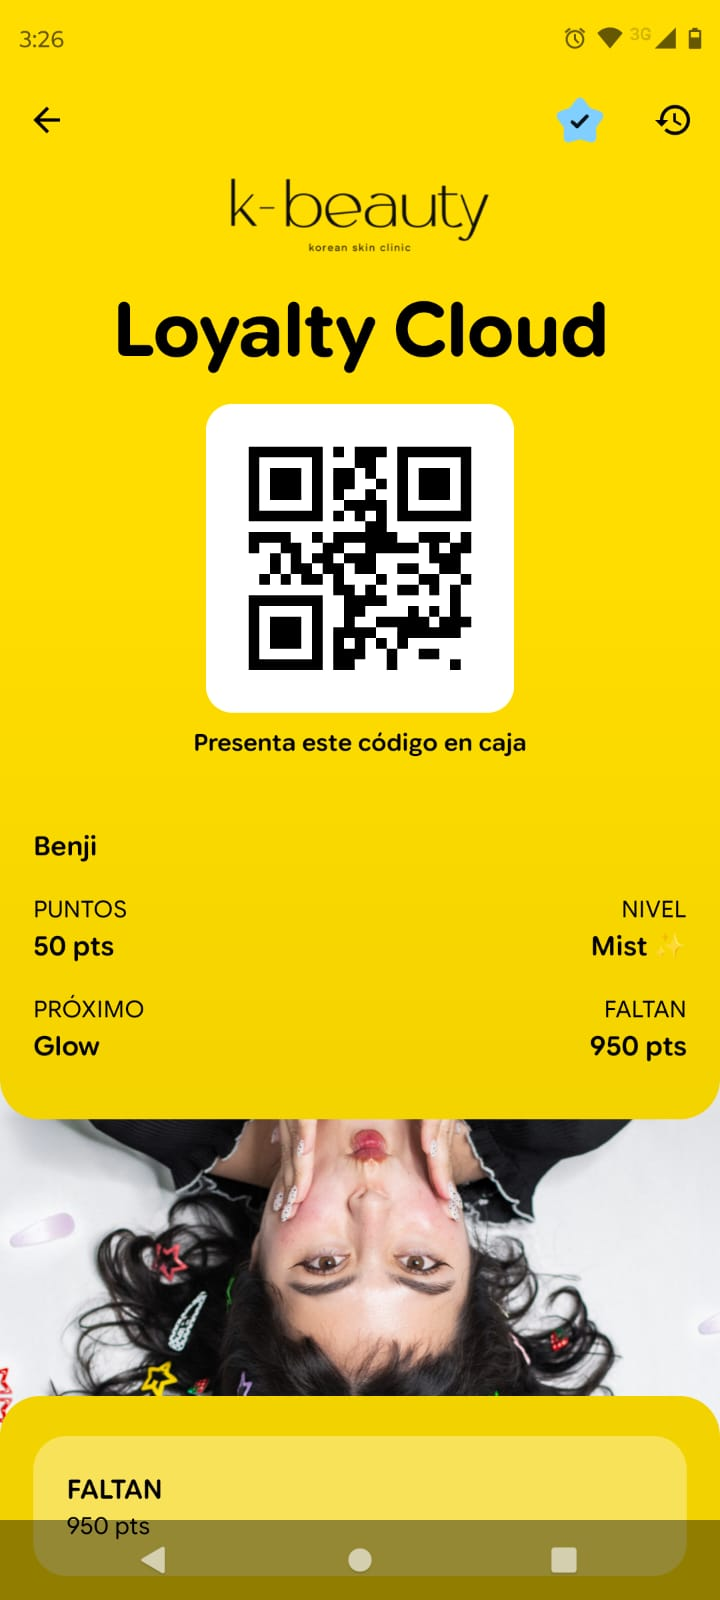
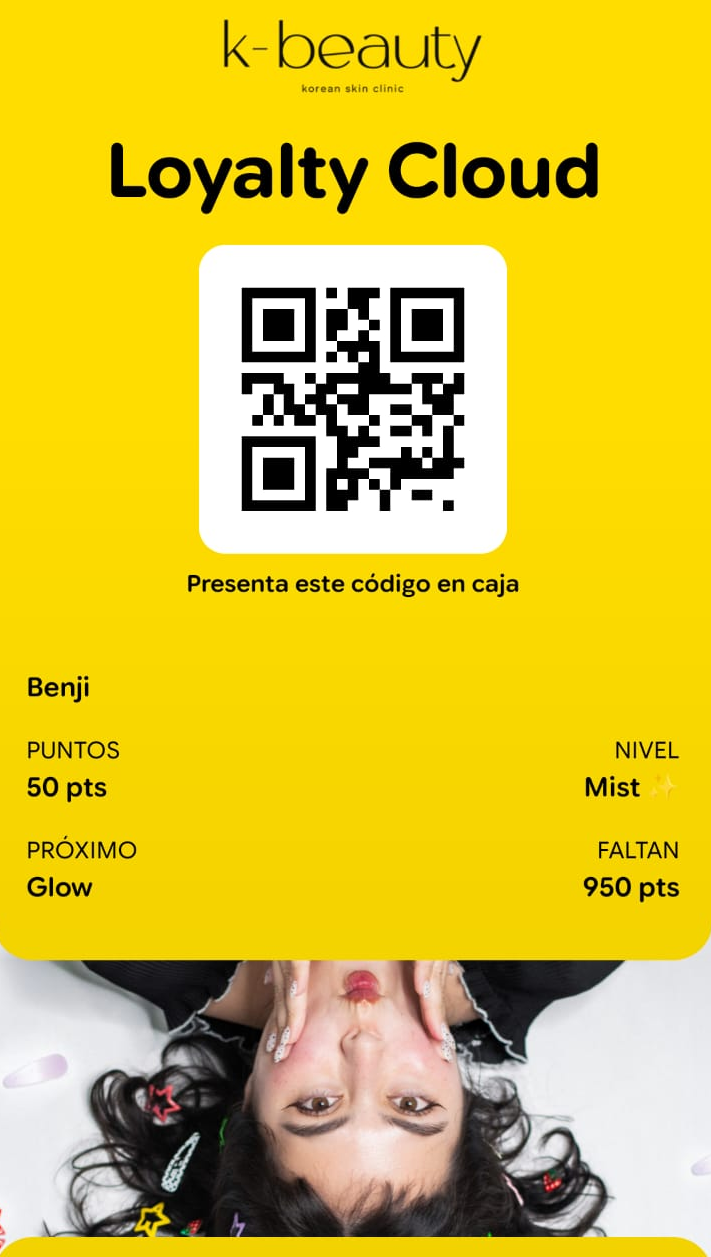
fix: refine landing screenshot sizing

diff --git a/src/LoyaltyCloud.Admin/wwwroot/css/landing.css b/src/LoyaltyCloud.Admin/wwwroot/css/landing.css
@@ -24,7 +24,7 @@
 .lp-avatar{display:inline-grid;place-content:center;background:#e0eade;color:#365340;width:30px;height:30px;border-radius:50%;font-size:10px;flex-shrink:0}.lp-app-table .lp-avatar{width:23px;height:23px;font-size:8px;margin-right:6px}.lp-avatar-rose{background:#f0e2da;color:#875542}.lp-positive{color:#386c50}.lp-status{padding:3px 6px;color:#386c50;background:#edf4ea;border-radius:4px}
 .lp-hero-phones{position:absolute;right:-5px;top:74px;width:310px;height:460px;z-index:2;pointer-events:none}.lp-hero-phones>div{position:absolute;width:180px}.lp-hero-phones>div:first-child{top:0;right:0;transform:rotate(4deg)}.lp-hero-phones>div:last-child{top:80px;left:0;transform:rotate(-3deg)}
 .lp-phone{padding:12px;border:5px solid #303932;border-radius:32px;background:#f2f3ee;box-shadow:0 18px 36px #0e201a29,inset 0 0 0 1px #fff;width:100%}.lp-phone-top{display:flex;justify-content:space-between;font-size:10px;padding:0 5px 10px;color:#233127}.lp-phone-label{font-size:13px;font-weight:650;margin-bottom:12px;color:#202824}
-.lp-wallet-shot{position:relative;aspect-ratio:.56/1;overflow:hidden;border-radius:18px;background:#111}.lp-wallet-shot img{display:block;width:100%;height:100%;object-fit:cover;object-position:center var(--shot-position,top);transform:scale(var(--shot-scale,1));transform-origin:center top}.lp-wallet-shot--apple{--shot-scale:1.14;--shot-position:32%}.lp-wallet-shot--google{--shot-scale:1.02;border-radius:21px}
+.lp-wallet-shot{position:relative;aspect-ratio:.56/1;overflow:hidden;border-radius:18px;background:#111}.lp-wallet-shot img{display:block;width:100%;height:100%;object-fit:contain;object-position:center}.lp-wallet-shot--google{border-radius:21px}.lp-wallet-shot--google img{object-position:center top}
 .lp-wallet{background:#354b43;color:white;border-radius:11px;overflow:hidden}.lp-wallet-google{border-radius:20px}.lp-wallet-brand{display:flex;align-items:center;gap:10px;padding:16px 12px;font-size:12px;letter-spacing:.02em}.lp-wallet-brand small{font-size:7px}.lp-demo-mark{font:italic 32px Georgia,serif}.lp-wallet-cover{padding:35px 14px;background:#d9e0d1;color:#354b43;font:29px/1.05 Georgia,serif}.lp-wallet-cover em{font-style:italic}.lp-wallet-google .lp-wallet-cover{background:#e7dbcb}
 .lp-wallet-member{padding:18px 12px 0;font-size:10px}.lp-wallet-values{display:flex;justify-content:space-between;gap:10px;padding:18px 12px}.lp-wallet-values small{font-size:8px;display:block;letter-spacing:.1em}.lp-wallet-values strong{display:block;font-size:19px;font-weight:550}.lp-demo-code{background:white;color:#202824;margin:0 12px 14px;padding:12px;border-radius:6px;text-align:center}.lp-demo-code svg{width:90px;height:35px;display:block;margin:auto}.lp-demo-code span{font-size:6px;display:block;margin-top:5px}.lc-public .lp-phone-note{font-size:9px;text-align:center;margin-top:12px;color:#5b655d}
 .lp-hero-phones .lp-phone{padding:8px;border-width:4px;border-radius:25px}.lp-hero-phones .lp-wallet-brand{padding:10px 7px;font-size:8px;gap:6px}.lp-hero-phones .lp-wallet-brand small{font-size:5px}.lp-hero-phones .lp-wallet-cover{font-size:22px;padding:24px 9px}.lp-hero-phones .lp-wallet-member{font-size:7px;padding:10px 8px 0}.lp-hero-phones .lp-wallet-values{padding:10px 8px}.lp-hero-phones .lp-wallet-values strong{font-size:13px}.lp-hero-phones .lp-wallet-values small{font-size:6px}.lp-hero-phones .lp-demo-code{padding:7px;margin:0 8px 10px}.lp-hero-phones .lp-demo-code svg{width:70px;height:25px}.lp-hero-phones .lp-phone-note{font-size:7px}
@@ -44,7 +44,7 @@
 .lp-campaign-stage{padding:20px 16px 44px 0;position:relative}.lp-campaign-field{padding-block:18px;border-bottom:1px solid var(--lp-line)}.lp-campaign-field>*{display:block}.lp-campaign-field small{font-size:8px;letter-spacing:.1em;color:var(--lp-muted)}.lp-campaign-field b{font-size:14px;margin-block:8px}.lp-campaign-field span,.lp-campaign-field p{font-size:11px}
 .lp-notification{position:relative;max-width:360px;margin:-5px -16px -20px auto;display:flex;gap:12px;align-items:start;background:#f9faf6;border:1px solid #cbd4c6;box-shadow:0 16px 32px #18351f1c;border-radius:14px;padding:20px}.lp-notification small{font-size:8px;display:block}.lp-notification b{font-size:13px;display:block;margin-top:5px}.lp-notification p{font-size:10px}.lp-notification .lp-app-logo{flex-shrink:0}
 .lp-gift-stage{background:#e7ebe0;border-radius:16px;padding:35px;position:relative}.lp-gift-stage .kb-gift-card-visual{max-width:290px;margin:auto;transform:rotate(-4deg)}.lc-public .lp-gift-stage .kb-gift-card-visual h2{font:32px/1.1 var(--font-display,Georgia,serif);color:var(--gift-text)}.lc-public .lp-gift-stage .kb-gift-card-visual p{color:var(--gift-text)}.lp-gift-ledger{position:relative;background:white;border:1px solid var(--lp-line);border-radius:9px;box-shadow:0 10px 20px #17382012;padding:16px;margin:-34px -8px 0 auto;max-width:220px;font-size:10px}.lp-gift-ledger>span{display:flex;justify-content:space-between;gap:15px;margin-top:12px}
-.lp-gift-wallet-shot{max-width:290px;aspect-ratio:.66/1;margin:auto;overflow:hidden;border-radius:18px;background:#111;box-shadow:0 18px 34px #172d2429;transform:rotate(-4deg)}.lp-gift-wallet-shot img{display:block;width:100%;height:100%;object-fit:cover;object-position:center 18%;transform:scale(1.08);transform-origin:center top}
+.lp-gift-wallet-shot{max-width:290px;aspect-ratio:.66/1;margin:auto;overflow:hidden;border-radius:18px;background:#111;box-shadow:0 18px 34px #172d2429;transform:rotate(-4deg)}.lp-gift-wallet-shot img{display:block;width:100%;height:100%;object-fit:contain;object-position:center}
 .lp-report-filters{display:flex;flex-wrap:wrap;gap:8px;margin-block:18px}.lp-report-filters span{font-size:9px;border:1px solid var(--lp-line);border-radius:5px;padding:6px 8px}.lp-report-key>*{display:block}.lp-report-key span{font-size:10px;color:var(--lp-muted)}.lp-report-key b{font-size:20px;margin-top:5px}.lp-report-surface svg{width:100%;height:auto;margin-top:20px}.lp-demo-caption{font-size:10px!important;margin-top:18px!important}
 .lp-benefits{background:#eef1e9}.lp-bento{display:grid;grid-template-columns:1.2fr 1fr 1fr;gap:18px}.lp-bento article{padding:30px;border:1px solid var(--lp-line);border-radius:14px;background:white;overflow:hidden}.lp-bento p{font-size:14px;margin-top:12px}.lp-bento-wallet{grid-row:span 2}.lp-bento .lp-bento-brand{background:#e2e9d9}.lp-bento-context{grid-column:span 2}
 .lp-bento-pass{margin-top:30px;background:#354b43;color:#f4f7ee;border-radius:12px;padding:24px;transform:rotate(-6deg) translateX(10px);box-shadow:0 20px 24px #213c3026}.lp-bento-pass>span{font-size:9px;letter-spacing:.06em}.lp-bento-pass>strong{display:block;font:32px/1.05 var(--font-display,Georgia,serif);padding-block:30px}.lp-bento-pass>div{display:flex;justify-content:space-between;align-items:center;border-top:1px solid #ffffff44;padding-top:20px;font-size:12px}.lp-bento-pass small{font-size:9px}
